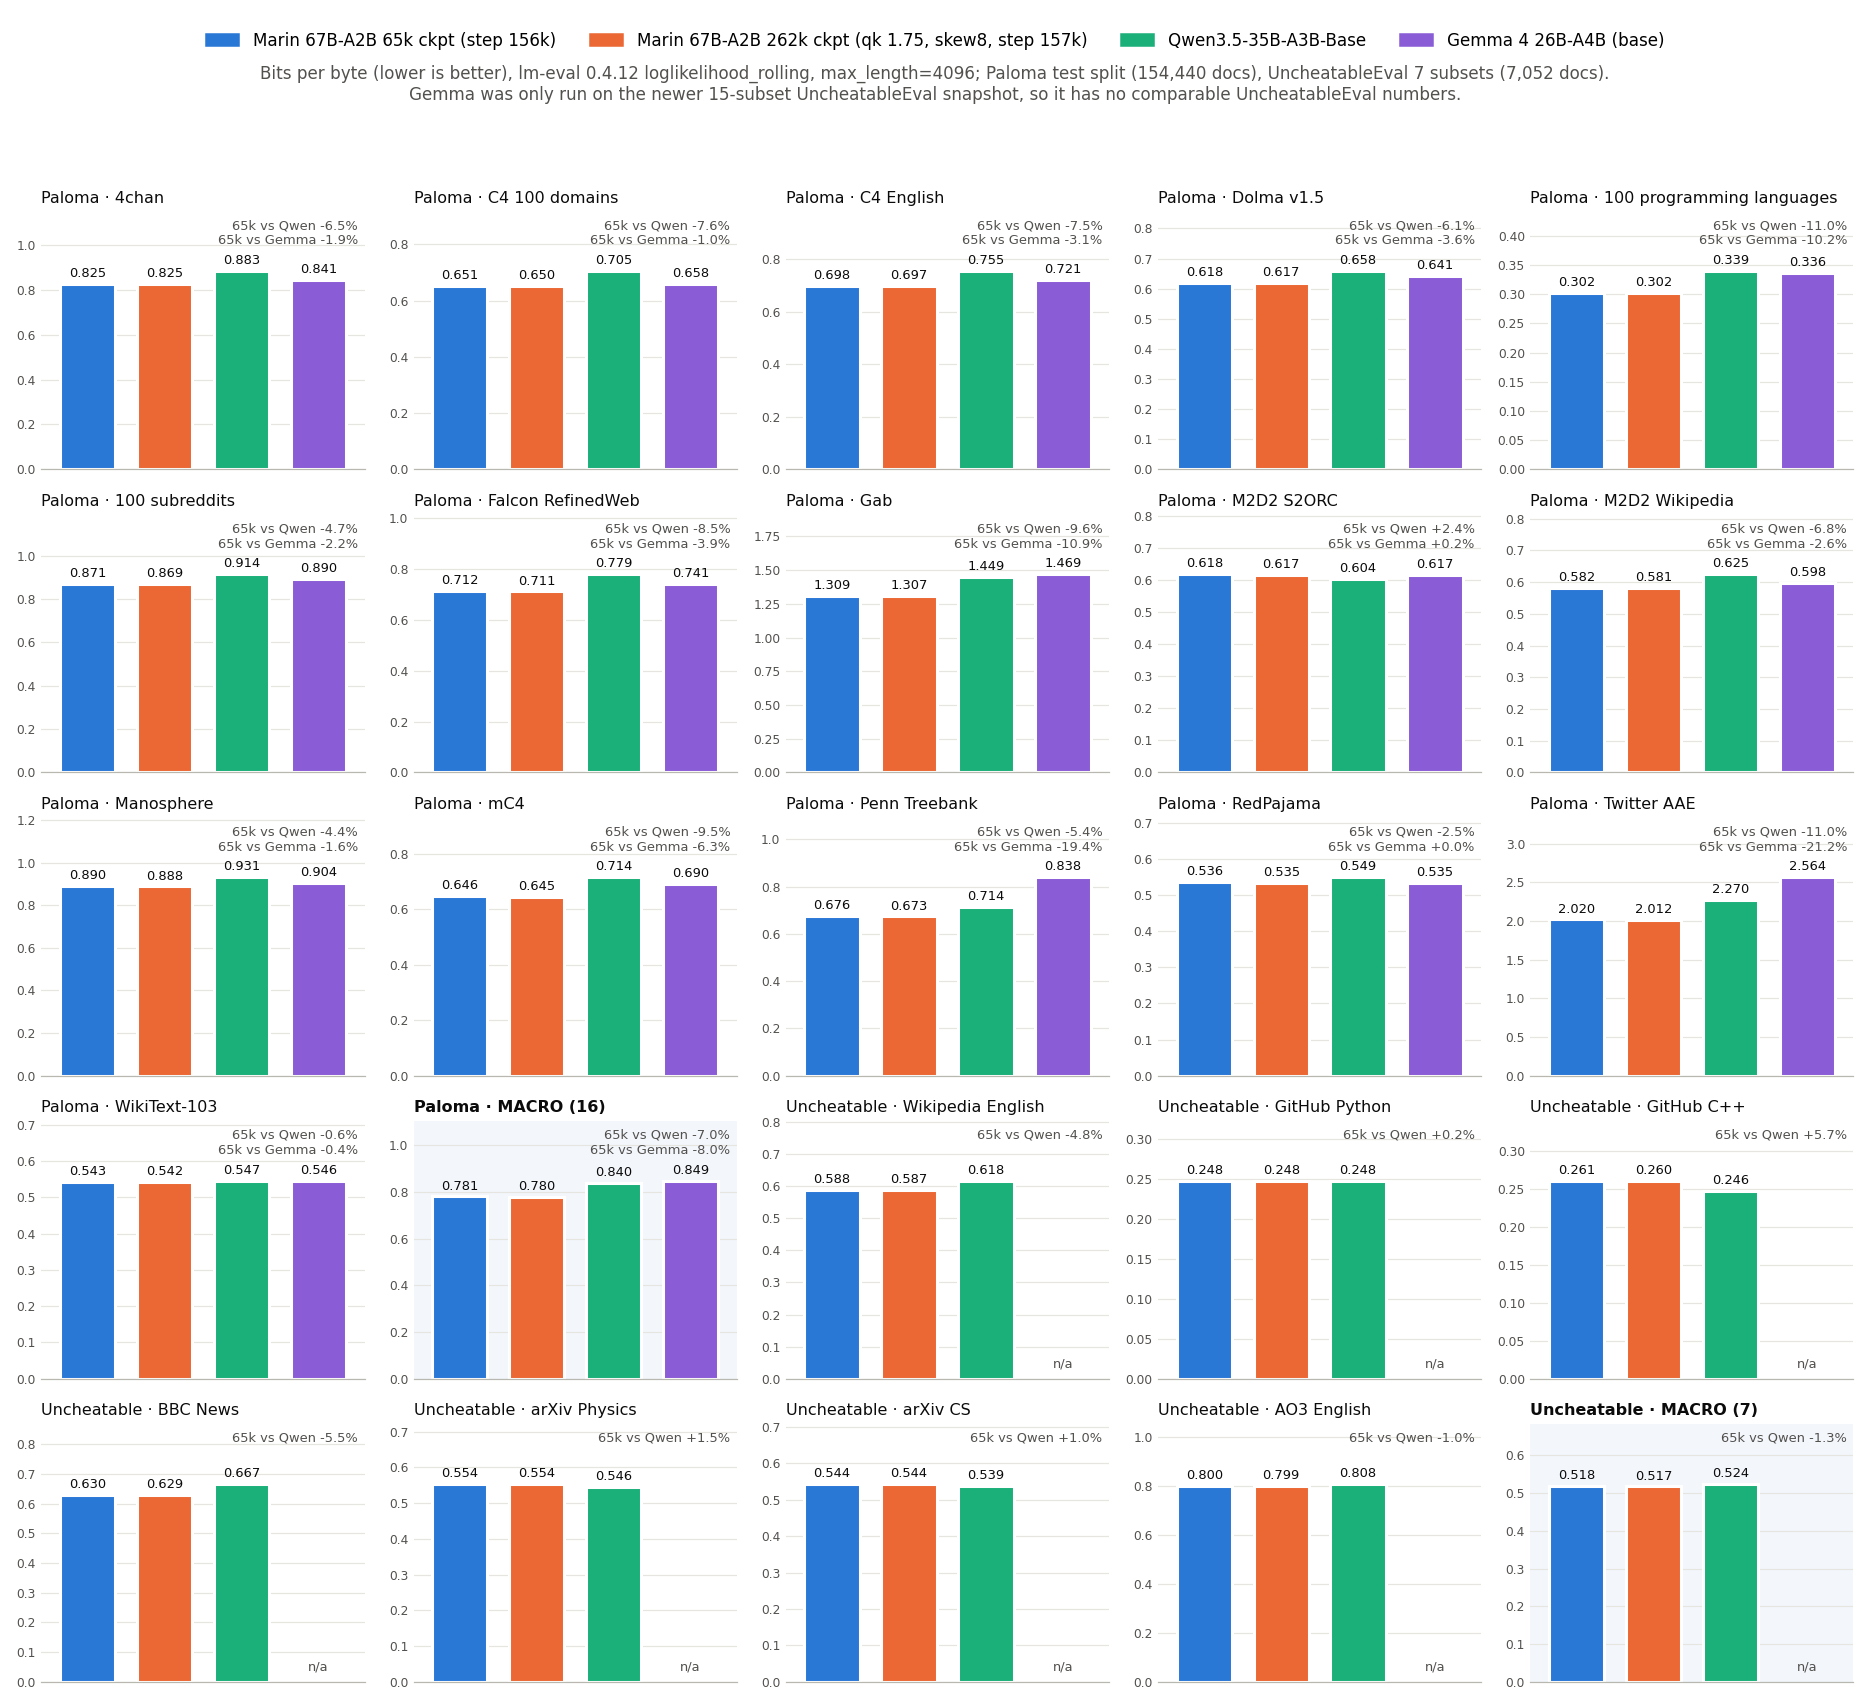
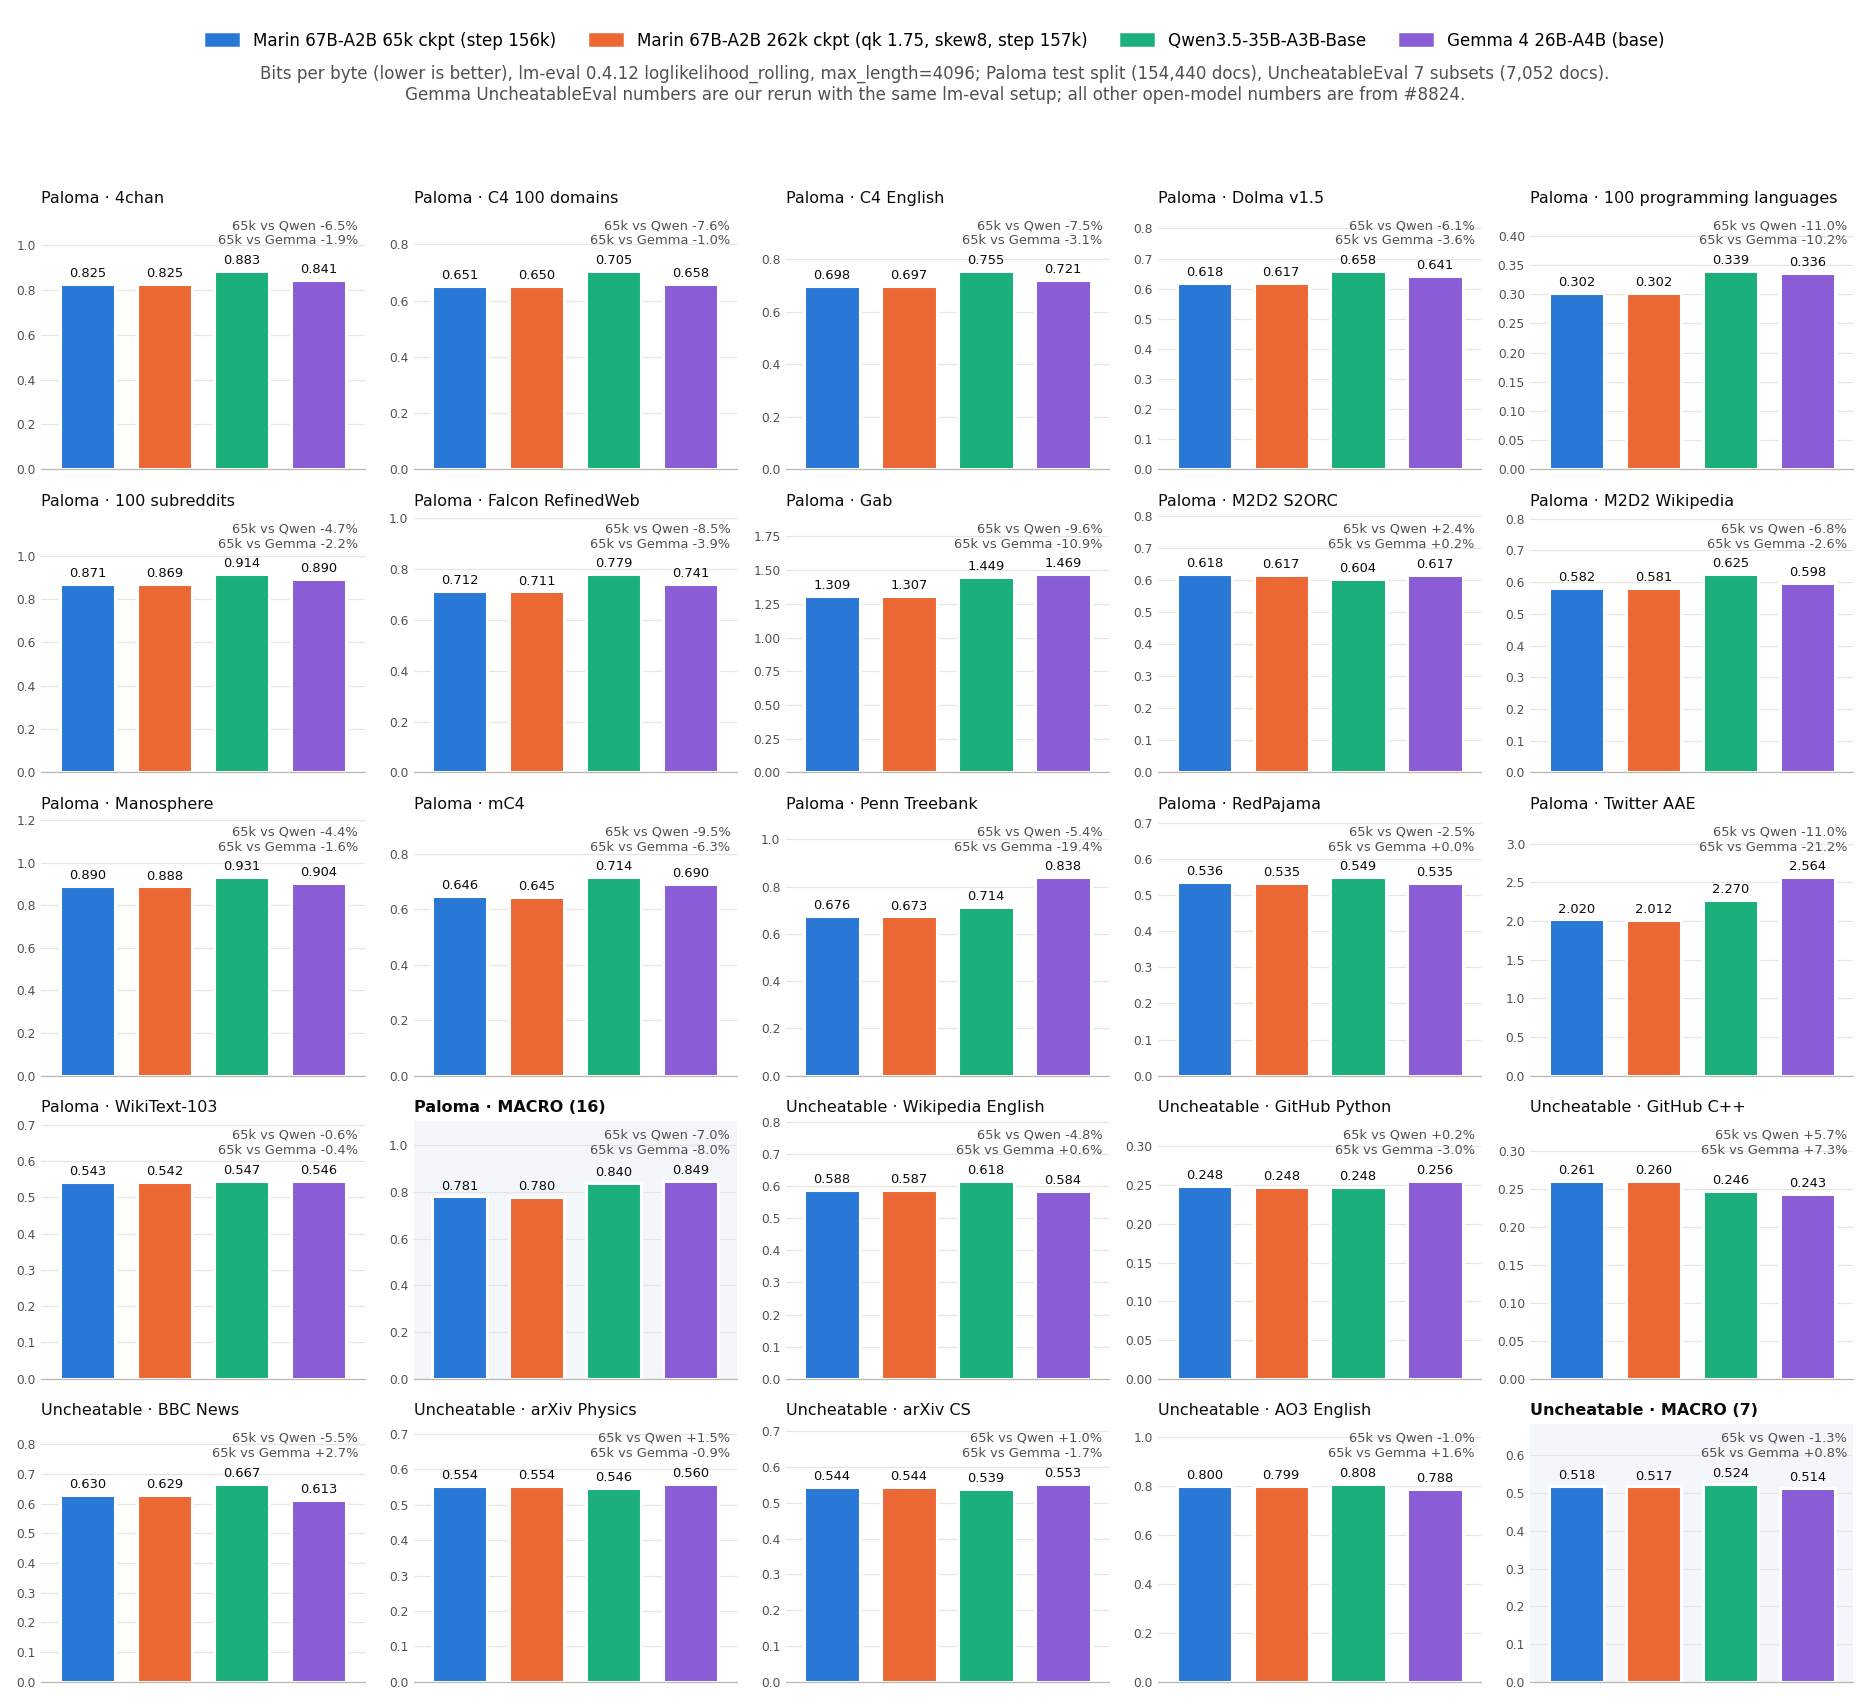
grug 67B-A2B: add Gemma 4 26B-A4B UncheatableEval (7 subsets) to open-model BPB chart
#8824 scored Gemma only on the newer 15-subset UncheatableEval snapshot. The
7-subset numbers come from a rerun with the same lm-eval 0.4.12 setup (W&B run
mv3surut), read by the chart script alongside the #8824 Paloma file.

diff --git a/experiments/grug/moe/plot_67b_a2b_vs_open_bases_bpb.py b/experiments/grug/moe/plot_67b_a2b_vs_open_bases_bpb.py
@@ -4,9 +4,10 @@
 """Plot per-eval BPB for the 67B-A2B 65k and 262k checkpoints against Qwen3.5-35B-A3B-Base and Gemma 4 26B-A4B.
 
 Marin numbers come from the W&B runs written by ``eval_67b_a2b_step156k_paloma_lm_eval_rolling.py``.
-Qwen and Gemma numbers come from the lm-eval results published with issue #8824. All use lm-eval 0.4.12
-``loglikelihood_rolling`` semantics on the same documents (Paloma test split, 7 legacy UncheatableEval subsets).
-Gemma was only run on the newer 15-subset UncheatableEval snapshot, so its UncheatableEval panels are empty.
+Qwen numbers and Gemma's Paloma numbers come from the lm-eval results published with issue #8824. #8824 scored
+Gemma only on the newer 15-subset UncheatableEval snapshot, so its 7-subset numbers come from our own rerun with the
+same lm-eval setup (W&B run ``GEMMA_UNCHEATABLE_RUN``). All use lm-eval 0.4.12 ``loglikelihood_rolling`` semantics
+on the same documents (Paloma test split, 7 legacy UncheatableEval subsets).
 
 Run::
 
@@ -29,6 +30,7 @@ WANDB_PROJECT = "marin-community/marin_moe"
 RESULTS_BASE = "https://storage.googleapis.com/marin-public/held/hero-open-weight-ppl/2026.09.05.1"
 QWEN_RESULTS_URL = f"{RESULTS_BASE}/qwen-results.json"
 GEMMA_RESULTS_URL = f"{RESULTS_BASE}/gemma-4-results.json"
+GEMMA_UNCHEATABLE_RUN = "mv3surut"
 CHECKPOINTS = (
     ("Marin 67B-A2B 65k ckpt (step 156k)", "step156k"),
     ("Marin 67B-A2B 262k ckpt (qk 1.75, skew8, step 157k)", "ctxext_qk175_skew8_step157k"),
@@ -83,18 +85,18 @@ def _qwen_bpb() -> dict[str, float]:
     return {task: metrics["bits_per_byte,none"] for task, metrics in results.items()}
 
 
-def _gemma_paloma_bpb() -> dict[str, float]:
+def _gemma_bpb() -> dict[str, float]:
     with urllib.request.urlopen(GEMMA_RESULTS_URL) as f:
-        return json.load(f)["paloma"]
+        paloma = json.load(f)["paloma"]
+    run = wandb.Api(timeout=60).run(f"{WANDB_PROJECT}/{GEMMA_UNCHEATABLE_RUN}")
+    uncheatable = {key: run.summary[f"bpb/uncheatable_marin_{key}"] for _, key in UNCHEATABLE}
+    return paloma | uncheatable
 
 
 def panels(
     marin: dict[str, dict[str, float]], qwen: dict[str, float], gemma: dict[str, float]
-) -> list[tuple[str, list[float | None]]]:
-    """One (title, [ckpt values..., qwen, gemma]) entry per eval, plus a macro entry per suite.
-
-    Gemma is None on UncheatableEval.
-    """
+) -> list[tuple[str, list[float]]]:
+    """One (title, [ckpt values..., qwen, gemma]) entry per eval, plus a macro entry per suite."""
 
     def ours(suite: str, key: str) -> list[float]:
         return [marin[f"{tag}/{suite}"][f"lm_eval_rolling/{suite}/{key}"] for _, tag in CHECKPOINTS]
@@ -114,7 +116,10 @@ def panels(
         )
     )
     out += [
-        (f"Uncheatable · {label}", [*ours("uncheatable_eval", f"{key}/bpb"), qwen[f"uncheatable_eval_hero_{key}"], None])
+        (
+            f"Uncheatable · {label}",
+            [*ours("uncheatable_eval", f"{key}/bpb"), qwen[f"uncheatable_eval_hero_{key}"], gemma[key]],
+        )
         for label, key in UNCHEATABLE
     ]
     out.append(
@@ -123,31 +128,25 @@ def panels(
             [
                 *ours("uncheatable_eval", "macro_bpb"),
                 statistics.mean(qwen[f"uncheatable_eval_hero_{key}"] for _, key in UNCHEATABLE),
-                None,
+                statistics.mean(gemma[key] for _, key in UNCHEATABLE),
             ],
         )
     )
     return out
 
 
-def plot(rows: list[tuple[str, list[float | None]]], path: str) -> None:
+def plot(rows: list[tuple[str, list[float]]], path: str) -> None:
     fig, axes = plt.subplots(5, 5, figsize=(17, 15.5))
     for ax, (title, vals) in zip(axes.flat, rows, strict=True):
         is_macro = "MACRO" in title
-        present = [v for v in vals if v is not None]
-        top = max(present)
+        top = max(vals)
         for x, v in enumerate(vals):
-            if v is None:
-                ax.text(x, top * 0.04, "n/a", ha="center", va="bottom", fontsize=8.5, color=MUTED)
-                continue
             ax.bar(x, v, color=COLORS[x], width=0.72, edgecolor="white", linewidth=2)
             ax.text(x, v + top * 0.02, f"{v:.3f}", ha="center", va="bottom", fontsize=8.5, color=INK)
         ax.set_xlim(-0.6, len(vals) - 0.4)
         ax.set_ylim(0, top * 1.3)
         ours, qwen, gemma = vals[0], vals[2], vals[3]
-        deltas = [f"65k vs Qwen {(ours / qwen - 1) * 100:+.1f}%"]
-        if gemma is not None:
-            deltas.append(f"65k vs Gemma {(ours / gemma - 1) * 100:+.1f}%")
+        deltas = [f"65k vs Qwen {(ours / qwen - 1) * 100:+.1f}%", f"65k vs Gemma {(ours / gemma - 1) * 100:+.1f}%"]
         ax.text(
             0.98,
             0.97,
@@ -181,8 +180,8 @@ def plot(rows: list[tuple[str, list[float | None]]], path: str) -> None:
     fig.suptitle(
         "Bits per byte (lower is better), lm-eval 0.4.12 loglikelihood_rolling, max_length=4096; "
         "Paloma test split (154,440 docs), UncheatableEval 7 subsets (7,052 docs).\n"
-        "Gemma was only run on the newer 15-subset UncheatableEval snapshot, "
-        "so it has no comparable UncheatableEval numbers.",
+        "Gemma UncheatableEval numbers are our rerun with the same lm-eval setup; "
+        "all other open-model numbers are from #8824.",
         fontsize=11,
         color=MUTED,
         y=0.962,
@@ -192,4 +191,4 @@ def plot(rows: list[tuple[str, list[float | None]]], path: str) -> None:
 
 
 if __name__ == "__main__":
-    plot(panels(_marin_summaries(), _qwen_bpb(), _gemma_paloma_bpb()), sys.argv[1])
+    plot(panels(_marin_summaries(), _qwen_bpb(), _gemma_bpb()), sys.argv[1])
